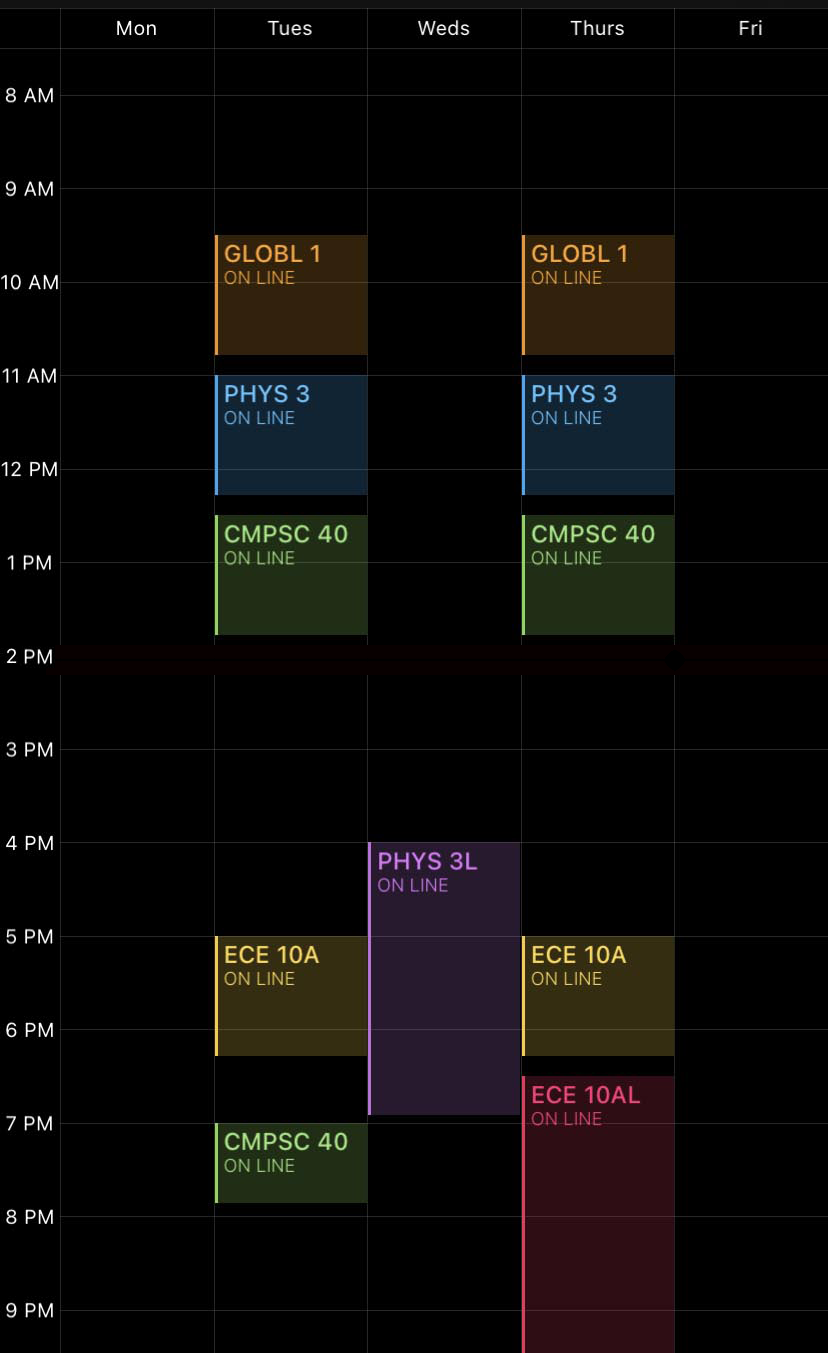
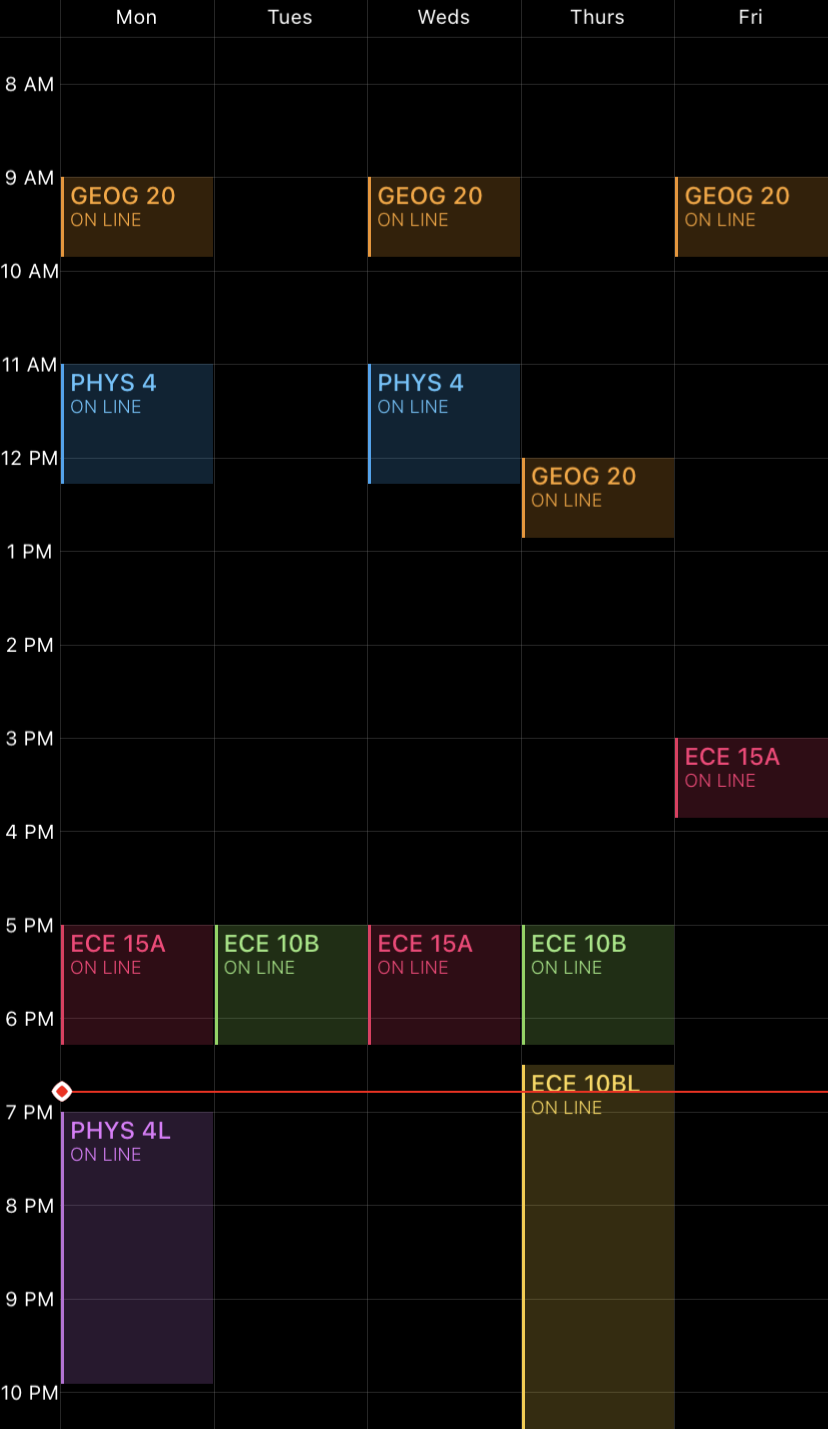
Updated for new quarter, switched quick links

diff --git a/index.html b/index.html
@@ -15,52 +15,53 @@
         onblur="if(this.value=='')this.value=this.defaultValue; "/>
     </form>
 <div id="info-div">
-<pre><b>CS 40</b>
-    <a href="https://gauchocast.hosted.panopto.com/Panopto/Pages/Sessions/List.aspx#folderID=%22d5cd7451-99fe-4e71-bcc1-ac4001271bde%22">Lectures, Sections: Gauchocast</a>
-    Office Hours: Sync
-    <a href="https://www.gradescope.com/courses/188108">Gradescope</a>
-    <a href="https://piazza.com/class/kf6bvsbskex5zb">Piazza</a>
-    <a href="https://gauchospace.ucsb.edu/courses/course/view.php?id=89810">Gauchospace</a>
-    <a href="file:///C:/Users/gepeake/Documents/School/Textbooks/CS40.pdf">Textbook</a>
-    8 written assignments with lowest dropped
-    The final 9th assignment can only raise grade
-    100 ≥ A ≥ 90
-    89  ≥ B ≥ 80
-    79  ≥ C ≥ 70
-    69  ≥ D ≥ 60
+<pre>
+<b>ECE 10B: ASYNC</b>
+    <a href="https://gauchospace.ucsb.edu/courses/course/view.php?id=103404">GauchoSpace</a>
+    <a href="https://gauchocast.hosted.panopto.com/Panopto/Pages/Sessions/List.aspx#folderID=%22b2b45c2a-c7c4-4623-86ae-aca7000ed773%22">GauchoCast</a>
+    <a href="">//Gradescope</a>
+    <a href="">//Piazza</a>
+    <a href="file:///T:/Drive/School/W21/ECE%2010B/Textbook.pdf">Textbook</a>
+    35% Final (3/17), 40% 2 Midterms (1/26, 2/18), 25% Homework
+    Homework due 5pm, zero if late
 
-<b>ECE 10A</b>
-    <a href="https://gauchocast.hosted.panopto.com/Panopto/Pages/Sessions/List.aspx#folderID=%22e4d515c1-d629-4020-ad8c-ac4800115a37%22">Lectures: Gauchocast</a>
-    <a href="https://www.gradescope.com/courses/183736">Gradescope</a>
-    <a href="https://piazza.com/class/kexbudk6bc629s">Piazza</a>
-    <a href="https://gauchospace.ucsb.edu/courses/course/view.php?id=92595">Gauchospace</a>
-    <a href="file:///C:/Users/gepeake/Documents/School/Textbooks/ECE%2010A.pdf">Textbook</a>
-    30% HW, 40% 2 Midterms, 30% Final exam
-    10% grade blocking, no +/-
-    
-<b>ECE 10AL</b>
-    Uses 10A resources
+<b>ECE 10B LAB: ASYNC</b>
+    <a href="">//Gradescope</a>
+    <a href="">//Piazza</a>
+    100% Labs due each Friday
 
-<b>PHYS 3</b>
-    <a href="https://gauchocast.hosted.panopto.com/Panopto/Pages/Sessions/List.aspx#folderID=%225dec1ccd-19bc-44d7-8ef8-ac49003d044a%22">Lectures: Gauchocast</a>
-    <a href="https://portal.mypearson.com/course-home#/tab/active">Mastering Physics</a>
-    <a href="https://gauchospace.ucsb.edu/courses/course/view.php?id=91330">Gauchospace</a>
-    <a href="file:///C:/Users/gepeake/Documents/School/Textbooks/PHYS%203.pdf">Textbook</a>
-    12% Written (Participation), 18% MC, 5% Prelecture MC, 2 Midterms 30%, Final 35%
+<b>ECE 15A: ASYNC/SYNC</b>
+    <a href="https://gauchospace.ucsb.edu/courses/course/view.php?id=103444">GauchoSpace</a>
+    <a href="https://ucsb.zoom.us/j/83755326073?pwd=ZlJncTYzc1J3Z2VTNy9YTC93SFJyUT09">Zoom Lecture: PWD 294276</a>
+    <a href="">//Gradescope</a>
+    <a href="https://gauchospace.ucsb.edu/courses/pluginfile.php/14095609/mod_resource/content/2/ECE%2015A%20Syllabus.pdf">Schedule</a>
+    20% 4 HW, 15% 3 Quiz, 10% Section Attendance, 30% 2 Midterm, 25% Final
 
-    |  A+  |  A  |  A-  |  B+  |  B  |  B-  |  C+  |  C  |  C-  |
-    100    97    88     85     82    75     72     69    62     59
+<b>GEOG 20: ASYNC/SYNC</b>
+    <a href="https://gauchospace.ucsb.edu/courses/course/view.php?id=103674">GauchoSpace</a>
+    <a href="https://gauchocast.hosted.panopto.com/Panopto/Pages/Sessions/List.aspx#folderID=%229d9c6e70-7cf5-460f-a904-aca70033e346%22">GauchoCast</a>
+    <a href="https://gauchospace.ucsb.edu/courses/mod/zoom/view.php?id=5840575">Section Zoom: PWD geog20</a>
+    <a href="https://ucsb.nectir.io/channel/geog20-winter2021">Nectir</a>
+    <a href="">//Empire</a>, <a href="">//Surf Science</a>
+    10% Weekly Quiz (Due Suns), 15% Participation, 15% Weekly reflection (Due Fris)
+    20% Group Project, 10% Midterm (1/29), 30% Final (3/17)
+    Mandatory sections
 
-<b>PHYS 3L</b>
-    <a href="https://gauchospace.ucsb.edu/courses/course/view.php?id=87360">Gauchospace</a>
-    Sections are mandatory live
+<b>PHYS 4: ASYNC</b>
+    <a href="https://gauchospace.ucsb.edu/courses/course/view.php?id=101724">GauchoSpace</a>
+    <a href="https://gauchocast.hosted.panopto.com/Panopto/Pages/Sessions/List.aspx#folderID=%224ac1d99e-7db3-4747-af2a-aca6016bfa79%22">GauchoCast</a>
+    <a href="https://login.pearson.com/v1/piapi/piui/signin?client_id=dN4bOBG0sGO9c9HADrifwQeqma5vjREy&okurl=https:%2F%2Fportal.mypearson.com%2Fcourse-home&siteid=8313">Mastering Physics</a>
+    <a href="https://web-prod.reef-education.com/#/courses">iClicker</a>
+    <a href="file:///T:/Drive/School/W21/PHYS%204/Textbook.pdf">Textbook</a>
+    20% MP, 1% iClicker EC, 15% Quizzes (On/Off Weds), 25% Midterm (2/3), 40% Final (3/18)
+    A+   A    A-   B+   B    B-   C+   C    C-
+    97 | 92 | 87 | 83 | 80 | 76 | 72 | 69 | 65
 
-<b>GLOBL 1</b>
-    <a href="https://gauchospace.ucsb.edu/courses/course/view.php?id=94300">Lectures: Gauchospace</a>
-    <a href="file:///C:/Users/gepeake/Documents/School/Textbooks/GLOBL%201.pdf">Textbook</a>
-    15% Two Pop Quizzes, 35% Midterm Exam, 35% Final Exam, 15% News Presentation
-    Lectures posted by 5pm, T/TR
-    Pop quizzes on GS, 10 minutes for 10 Qs
+<b>PHYS 4 LAB: SYNC</b>
+    <a href="https://gauchospace.ucsb.edu/courses/course/view.php?id=101734">GauchoSpace</a>
+    <a href="https://gauchospace.ucsb.edu/courses/pluginfile.php/11667763/mod_resource/content/3/4LSite/static/index.html">Course Website</a>
+    <a href="">//Gradescope</a>
+    <a href="https://ucsb.nectir.io/channel/physics4l">Nectir</a>
 </pre>
 </div>
 <div id="schedule-div">
@@ -68,15 +69,15 @@
 </div>
 <div id="enter-div">
     <div id="enter-card">
-        <a href="https://www.youtube.com">
-            <img src="res/youtube.png" id="enter-pic">
-            <p id="enter-text">Youtube</p>
+        <a href="https://www.producthunt.com">
+            <img src="res/phunt.svg" id="enter-pic">
+            <p id="enter-text">Product Hunt</p>
         </a>
     </div>
     <div id="enter-card">
-        <a href="https://www.twitch.tv">
-            <img src="res/twitch.webp" id="enter-pic">
-            <p id="enter-text">Twitch</p>
+        <a href="https://news.ycombinator.com">
+            <img src="res/hackernews.gif" id="enter-pic">
+            <p id="enter-text">Hacker News</p>
         </a>
     </div>
     <div id="enter-card">

diff --git a/style.css b/style.css
@@ -87,6 +87,7 @@ a:hover{
 
 #enter-pic{
     max-width:90%;
+    border-radius: 30%;
     padding: 10.5% 0%;
     height: auto;
 }
